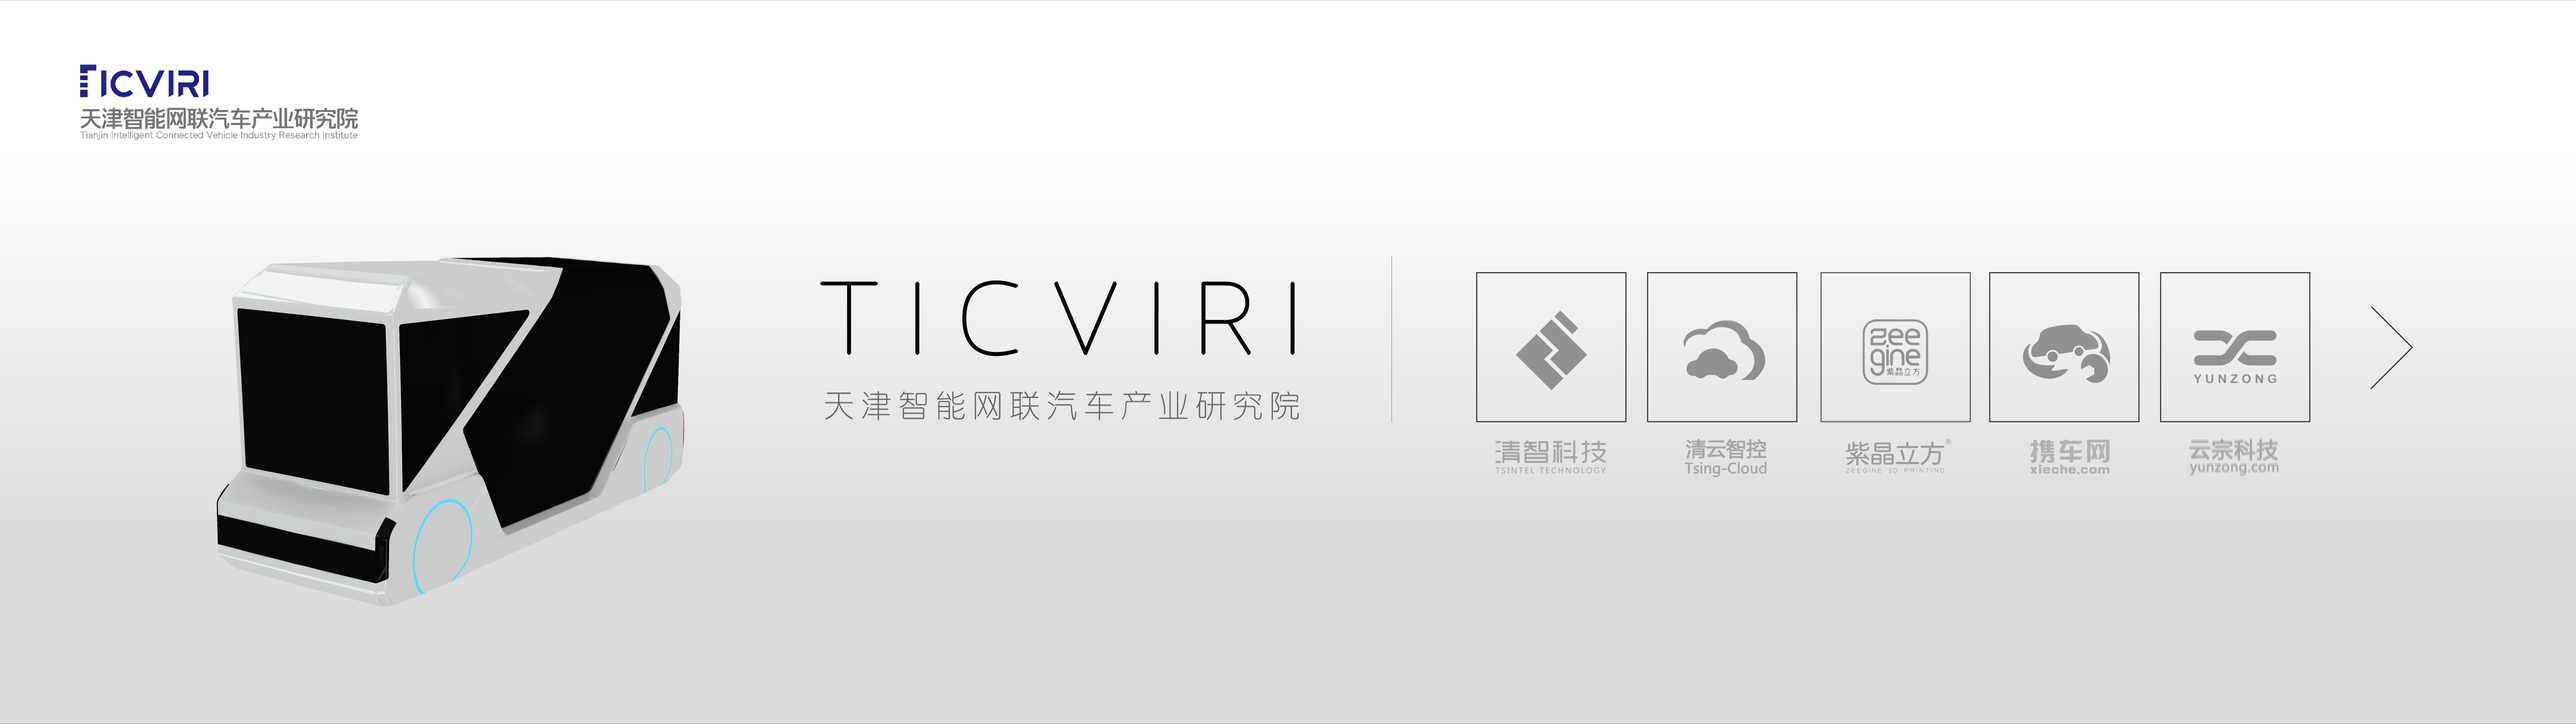
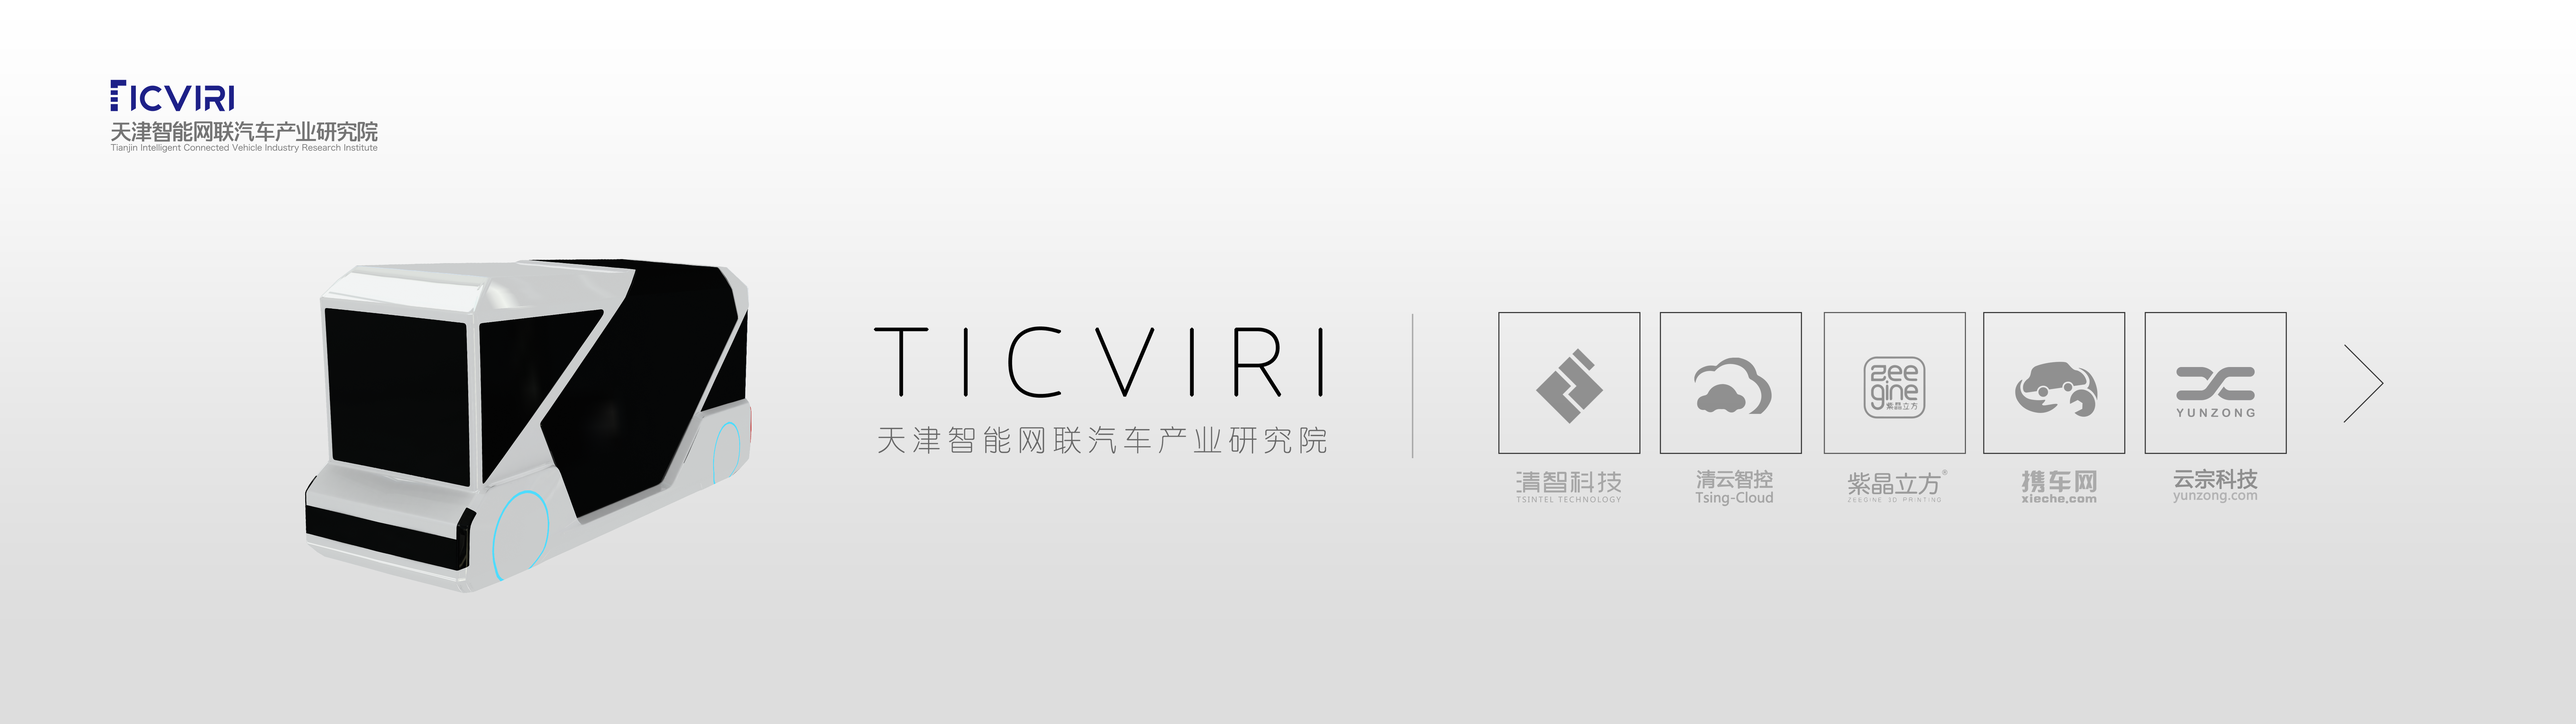
修改了首页的重影问题，以及第二屏的云宗科技enter按钮上没有中文的问题； 加入了新功能：若干时间无操作后返回到首页。

diff --git a/WpfApplication1/Main.xaml.cs b/WpfApplication1/Main.xaml.cs
@@ -5,19 +5,32 @@ using System.Windows.Controls;
 using System.Windows.Media.Imaging;
 using System.Timers;
 using System.Threading;
+using System.Windows.Threading;
+using System.Runtime.InteropServices;
 
 namespace 孵化
 {
+    [StructLayout(LayoutKind.Sequential)]
+    struct PLASTINPUTINFO
+    {
+        public static readonly int Sizeof = Marshal.SizeOf(typeof(PLASTINPUTINFO));
+
+        [MarshalAs(UnmanagedType.U4)]
+        public Int32 cbSize;
+        [MarshalAs(UnmanagedType.U4)]
+        public UInt32 dwTime;
+    }
+
     public enum MainPic
     {
         init,
         first,
         second
     }
-	/// <summary>
-	/// MainWindow.xaml 的交互逻辑
-	/// </summary>
-	public partial class MainWindow : Window
+    /// <summary>
+    /// MainWindow.xaml 的交互逻辑
+    /// </summary>
+    public partial class MainWindow : Window
     {
         private bool isFullscreen = false;
         private bool[] isModelIn = new bool[5];
@@ -105,7 +118,20 @@ namespace 孵化
             }
         }
 
-        private System.Timers.Timer timer = new System.Timers.Timer(1000);
+        private DispatcherTimer timer;
+        private readonly static int defaultCheckCount = 2;  // Unit in second
+        private static int _checkCount = defaultCheckCount;
+        private static int checkCount
+        {
+            get
+            {
+                return _checkCount;
+            }
+            set
+            {
+                _checkCount = value;
+            }
+        }
 
         public struct State
         {
@@ -130,13 +156,20 @@ namespace 孵化
             public double height;
         }
         private State state;
+
+
+
+
+
         public MainWindow()
         {
             InitializeComponent();
             this.state = new State(this.WindowState, this.WindowStyle, this.ResizeMode, this.Topmost, this.Left, this.Top, this.Width, this.Height);
-            this.timer.Elapsed += this.Timer_Elapsed;
-            this.timer.AutoReset = true;
-            this.timer.Enabled = false;
+            this.timer = new DispatcherTimer();
+            this.timer.Interval = new TimeSpan(0, 0, 1);
+            this.timer.Tick += new EventHandler(this.Timer_Tick);
+            timer.Start();
+
 
 #if !DEBUG
             MainWindow.FullScreen(this);
@@ -151,7 +184,7 @@ namespace 孵化
             (sender as Window).Topmost = true;
             (sender as Window).Left = 0.0;
             (sender as Window).Top = 0.0;
-			(sender as Window).Width = System.Windows.SystemParameters.PrimaryScreenWidth;
+            (sender as Window).Width = System.Windows.SystemParameters.PrimaryScreenWidth;
             (sender as Window).Height = System.Windows.SystemParameters.PrimaryScreenHeight;
         }
         private void ResumeWindowState()
@@ -177,9 +210,9 @@ namespace 孵化
             this.state.height = this.Height;
         }
 
-		private void Model0EnterButton_Click(object sender, RoutedEventArgs e)
-		{
-            if(this.currentMainPic == MainPic.first && this.isModelIn[0] == false)
+        private void Model0EnterButton_Click(object sender, RoutedEventArgs e)
+        {
+            if (this.currentMainPic == MainPic.first && this.isModelIn[0] == false)
             {
                 this.isModelIn[0] = true;
                 this.Model0EnterButton.IsEnabled = false;
@@ -187,11 +220,11 @@ namespace 孵化
                 this.content0CurrentPage = 1;
                 this.content0.Visibility = Visibility.Visible;
             }
-		}
+        }
 
-		private void Model1EnterButton_Click(object sender, RoutedEventArgs e)
-		{
-            if(this.currentMainPic == MainPic.first && this.isModelIn[1] == false)
+        private void Model1EnterButton_Click(object sender, RoutedEventArgs e)
+        {
+            if (this.currentMainPic == MainPic.first && this.isModelIn[1] == false)
             {
                 this.isModelIn[1] = true;
                 this.Model1EnterButton.IsEnabled = false;
@@ -200,11 +233,11 @@ namespace 孵化
                 this.content1.Visibility = Visibility.Visible;
             }
 
-		}
+        }
 
-		private void Model2EnterButton_Click(object sender, RoutedEventArgs e)
-		{
-            if(this.currentMainPic == MainPic.first && this.isModelIn[2] == false)
+        private void Model2EnterButton_Click(object sender, RoutedEventArgs e)
+        {
+            if (this.currentMainPic == MainPic.first && this.isModelIn[2] == false)
             {
                 this.isModelIn[2] = true;
                 this.Model2EnterButton.IsEnabled = false;
@@ -214,7 +247,7 @@ namespace 孵化
 
             }
 
-		}
+        }
 
         private void Model3EnterButton_Click(object sender, RoutedEventArgs e)
         {
@@ -255,6 +288,22 @@ namespace 孵化
             i.EndInit();
             this.MainPicImage.Source = i;
 
+            ResumeScreenState(sender, e);
+        }
+
+        private void GoBackToFirstPic(object sender, RoutedEventArgs e)
+        {
+            BitmapImage i = new BitmapImage();
+            i.BeginInit();
+            i.UriSource = new Uri("res/0.png", UriKind.RelativeOrAbsolute);
+            i.EndInit();
+            this.currentMainPic = MainPic.init;
+            this.MainPicImage.Source = i;
+            this.ResumeScreenState(sender, e);
+        }
+
+        private void ResumeScreenState(object sender, RoutedEventArgs e)
+        {
             this.content0.Visibility = Visibility.Hidden;
             this.content1.Visibility = Visibility.Hidden;
             this.content2.Visibility = Visibility.Hidden;
@@ -265,7 +314,7 @@ namespace 孵化
             this.Model2EnterButton.IsEnabled = true;
             this.Model3EnterButton.IsEnabled = true;
 
-            for(int a = 0; a < this.isModelIn.Length - 1; a++)
+            for (int a = 0; a < this.isModelIn.Length - 1; a++)
             {
                 this.isModelIn[a] = false;
             }
@@ -279,19 +328,6 @@ namespace 孵化
             this.Nav32ReturnButton_Click(sender, e);
         }
 
-        private void Timer_Elapsed(object sender, System.Timers.ElapsedEventArgs e)
-        {
-            this.currentMainPic = MainPic.init;
-            this.content0.Visibility = Visibility.Hidden;
-            this.content1.Visibility = Visibility.Hidden;
-            this.content2.Visibility = Visibility.Hidden;
-            this.content3.Visibility = Visibility.Hidden;
-
-            this.Model0EnterButton.IsEnabled = false;
-            this.Model1EnterButton.IsEnabled = false;
-            this.Model2EnterButton.IsEnabled = false;
-            this.Model3EnterButton.IsEnabled = false;
-        }
 
         private void Nav0IntroButton_Click(object sender, RoutedEventArgs e)
         {
@@ -506,7 +542,7 @@ namespace 孵化
             this.ButArea2.ColumnDefinitions[0].Width = new GridLength(73, GridUnitType.Star);
             this.ButArea2.ColumnDefinitions[1].Width = new GridLength(13, GridUnitType.Star);
             this.ButArea2.ColumnDefinitions[2].Width = new GridLength(9, GridUnitType.Star);
-            
+
         }
 
         private void Nav2PlanButton_Click(object sender, RoutedEventArgs e)
@@ -589,7 +625,7 @@ namespace 孵化
         private void Nav31GoodnessButton_Click(object sender, RoutedEventArgs e)
         {
             this.content3CurrentPage = 8;
-            
+
             this.ButArea3.RowDefinitions[0].Height = new GridLength(34, GridUnitType.Star);
             this.ButArea3.RowDefinitions[1].Height = new GridLength(10, GridUnitType.Star);
             this.ButArea3.RowDefinitions[2].Height = new GridLength(231, GridUnitType.Star);
@@ -647,7 +683,7 @@ namespace 孵化
 
             this.ButArea3Next.Visibility = Visibility.Visible;
             this.ButArea3Previous.Visibility = Visibility.Hidden;
-            
+
         }
 
         private void Nav32CharacterButton_Click(object sender, RoutedEventArgs e)
@@ -806,7 +842,7 @@ namespace 孵化
 
                 case 2:
                     this.content1CurrentPage = 3;
-                    
+
                     this.ButArea1.RowDefinitions[0].Height = new GridLength(72, GridUnitType.Star);
                     this.ButArea1.RowDefinitions[1].Height = new GridLength(14, GridUnitType.Star);
                     this.ButArea1.RowDefinitions[2].Height = new GridLength(189, GridUnitType.Star);
@@ -996,7 +1032,7 @@ namespace 孵化
 
                 case 17:
                     this.content1CurrentPage = 18;
-                    
+
                     this.ButArea1.RowDefinitions[0].Height = new GridLength(167, GridUnitType.Star);
                     this.ButArea1.RowDefinitions[1].Height = new GridLength(11, GridUnitType.Star);
                     this.ButArea1.RowDefinitions[2].Height = new GridLength(97, GridUnitType.Star);
@@ -1095,7 +1131,7 @@ namespace 孵化
 
         private void ButArea1Previous_Click(object sender, RoutedEventArgs e)
         {
-            switch(this.content1CurrentPage)
+            switch (this.content1CurrentPage)
             {
                 case 2:
                     this.Nav1BackgroundButton_Click(sender, e);
@@ -1518,7 +1554,7 @@ namespace 孵化
             }
             else
             {
-                switch(this.content3CurrentPage)
+                switch (this.content3CurrentPage)
                 {
                     case 4:
                         this.content3CurrentPage = 5;
@@ -1687,7 +1723,7 @@ namespace 孵化
             }
             else
             {
-                switch(this.content3CurrentPage)
+                switch (this.content3CurrentPage)
                 {
                     case 5:
                         this.Nav31ProductButton_Click(sender, e);
@@ -1730,6 +1766,50 @@ namespace 孵化
 
             }
 
+        }
+
+        private void Timer_Tick(object sender, EventArgs e)
+        {
+
+            if (HaveUsedTo())
+            {
+                if (--checkCount == 0)
+                {
+                    checkCount = defaultCheckCount;
+
+                    timer.Stop();
+
+                    // Some actions here
+                    this.GoBackToFirstPic(sender, new RoutedEventArgs());
+
+
+                    timer.Start();
+                }
+            }
+            else
+            {
+                checkCount = defaultCheckCount;
+            }
+        }
+
+        private bool HaveUsedTo()
+        {
+            long noActionTime = GetNoActionTime() ;
+            return noActionTime / 1000 > 1;
+        }
+
+        [DllImport("user32.dll")]
+        static extern bool GetLastInputInfo(ref PLASTINPUTINFO pLASTINPUTINFO);
+
+        private static long GetNoActionTime()
+        {
+            PLASTINPUTINFO pLASTINPUTINFO = new PLASTINPUTINFO();
+            pLASTINPUTINFO.cbSize = Marshal.SizeOf(pLASTINPUTINFO);
+            if (!GetLastInputInfo(ref pLASTINPUTINFO))
+            {
+                return 0;
+            }
+            return Environment.TickCount - pLASTINPUTINFO.dwTime;
         }
     }
 }

diff --git a/WpfApplication1/App.xaml.cs b/WpfApplication1/App.xaml.cs
@@ -3,13 +3,30 @@ using System.Collections.Generic;
 using System.Configuration;
 using System.Data;
 using System.Windows;
+using System.Runtime.InteropServices;
+using System.Threading;
+using System.Windows.Threading;
 
 namespace 孵化
 {
+
+
+
     /// <summary>
     /// App.xaml 的交互逻辑
     /// </summary>
     public partial class App : Application
     {
+        private DispatcherTimer timer;
+        private readonly static int defaultCheckCount = 300;
+        private static int checkCount = defaultCheckCount;
+
+        protected override void OnStartup(StartupEventArgs e)
+        {
+            base.OnStartup(e);
+          
+        }
+
+
     }
 }
